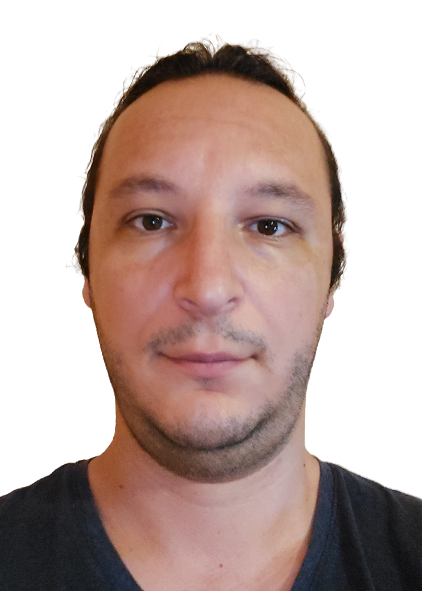
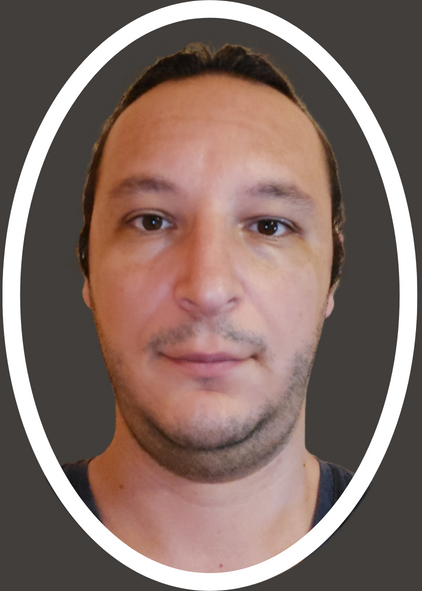
change profile image

diff --git a/css/style.css b/css/style.css
@@ -194,7 +194,7 @@ main{
 .photo-gradient-layer {
     width: 250px;
     height: 100%;
-    background-image: radial-gradient(rgba(66, 62, 59, 0) 40%, var(--color-dark-gray) 60%);
+    background-image: radial-gradient(rgba(66, 62, 59, 0) 40%, var(--color-dark-gray) 100%);
     position: absolute;
     top: 0;
     z-index: 40;
@@ -424,11 +424,11 @@ footer {
         margin: 0;
     }
 
-    .photo-gradient-layer {
+    /* .photo-gradient-layer {
         width: 240px;
         height: 336px;
         background-image: radial-gradient(rgba(66, 62, 59, 0) 50%, var(--color-dark-gray) 70%);
-    }
+    } */
 
     .about-txt {
         margin-top: 6rem;
